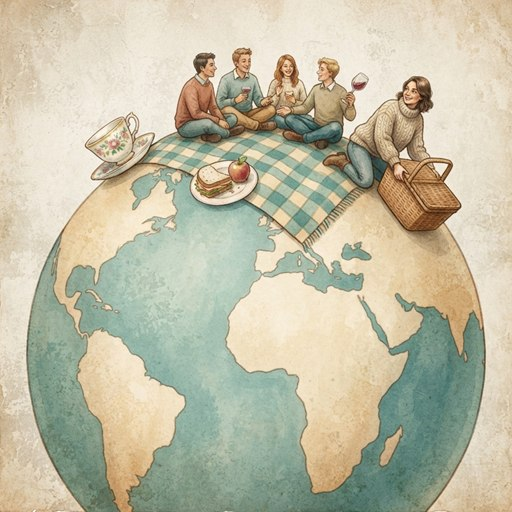
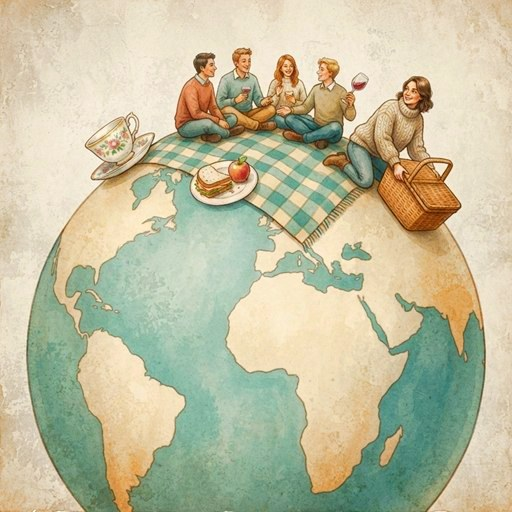
Novy profil: dobarvena ilustrace auth-hero (sytost jen mimo papir)

diff --git a/CLAUDE.md b/CLAUDE.md
@@ -143,7 +143,9 @@ Nejnovější nahoře. Formát: **datum — název** + jednou větou co a proč.
     času, vyhlášení, zprávy o pásmech). Audit konzistence je nechytal: čte data, ne šablony v kódu.
   - **Ilustrace na výsledku sóla/školy (`end-solo.jpg`) a vyhlášení párty (`end-party.jpg`)**, třída
     `.qz-endimg` s rámečkem jako dlaždice rozcestníku. Dlaždice kontinentů a režimů byly týž den
-    dobarvené lokálně (`sharp`, sytost jen tam, kde barva už je — papír nežloutne); Evropa je nová
+    dobarvené lokálně (`sharp`, sytost jen tam, kde barva už je — papír nežloutne; váha podle
+    vzdálenosti pixelu od barvy papíru navzorkované z rohů, síla ~0,55 — takhle později
+    i `auth-hero.jpg` na obrazovce Nový profil); Evropa je nová
     z Gemini, přebarvením staré, protože „MUCH more saturated" v promptu dalo komiks.
   - **Past zaplacená znovu: `node -e` s regulárním výrazem v Bashi.** `\\$` v dvojitých uvozovkách
     výraz rozbilo a nahrazení hlásilo 0 nálezů. Skripty s regexy psát nástrojem Write.
